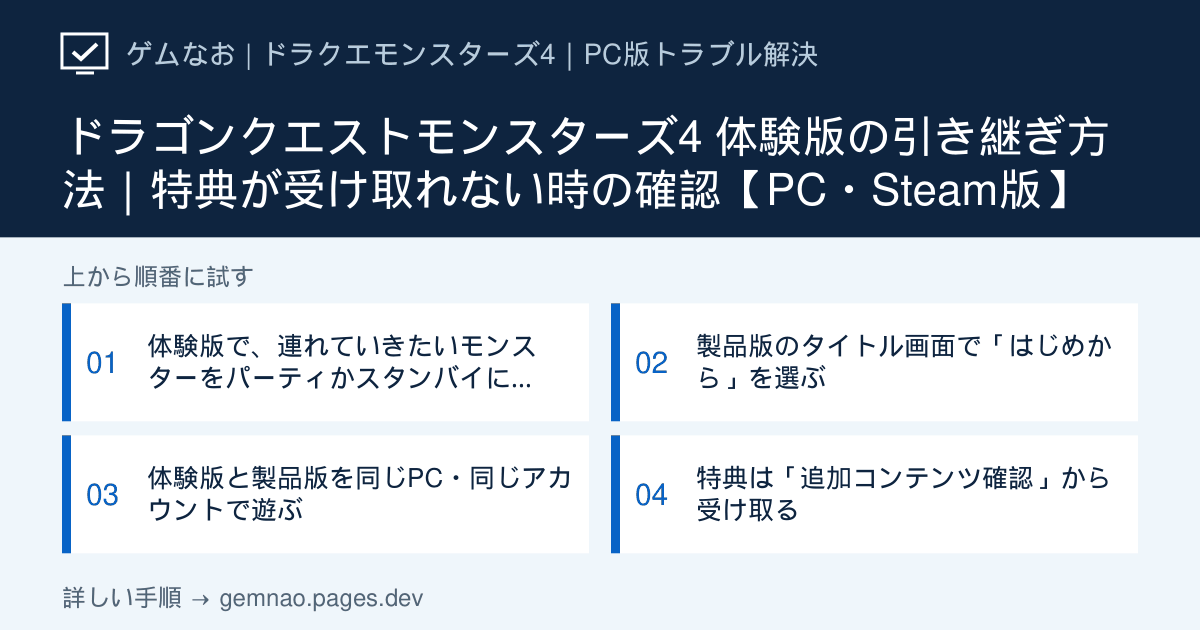
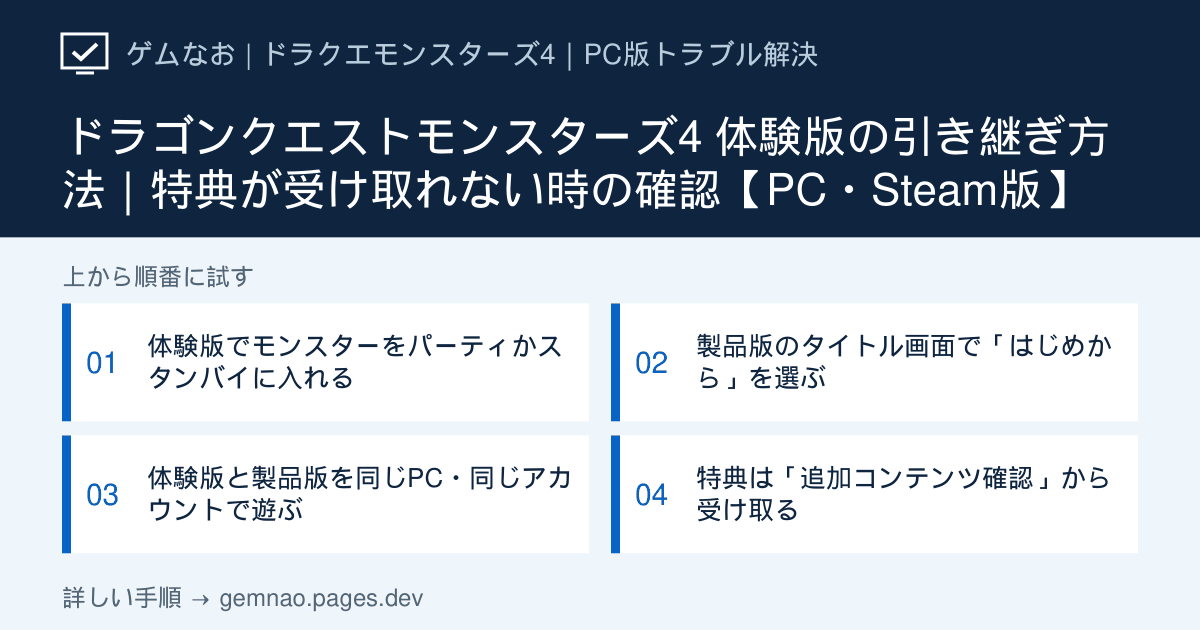
DQM4記事の手順1の見出しを短くする（OGカードで切れないように）
Claude-Session: https://claude.ai/code/session_012qBvfLeXJKFbVbmjsB9psj

Changed region(s): [[0.1542, 0.5127, 0.4625, 0.6333]]

diff --git a/lib/upcoming-release-articles.ts b/lib/upcoming-release-articles.ts
@@ -616,8 +616,7 @@ export const upcomingReleaseArticles: GameArticle[] = [
     steps: [
       {
         id: 'step-1',
-        title:
-          '体験版で、連れていきたいモンスターをパーティかスタンバイに入れる',
+        title: '体験版でモンスターをパーティかスタンバイに入れる',
         summary:
           '製品版に引き継げるのは、体験版のセーブデータでパーティとスタンバイにいるモンスター（最大8体）だけです。体験版で仲間にできるのはGランクとFランクのモンスターです。',
         time: '約5分',

diff --git a/lib/og-image-manifest.ts b/lib/og-image-manifest.ts
@@ -80,7 +80,7 @@ export const ogImageManifest: Record<string, string> = {
   "/games/cyberpunk-2077": "b8f02bca",
   "/games/cyberpunk-2077/not-launching": "01feef5f",
   "/games/dragon-quest-monsters-4": "11edd9af",
-  "/games/dragon-quest-monsters-4/demo-transfer": "15a96635",
+  "/games/dragon-quest-monsters-4/demo-transfer": "4d4c5b94",
   "/games/dragons-dogma-2": "50fbbc48",
   "/games/dragons-dogma-2/performance": "3eeed0b7",
   "/games/elden-ring": "7b6f68c6",
